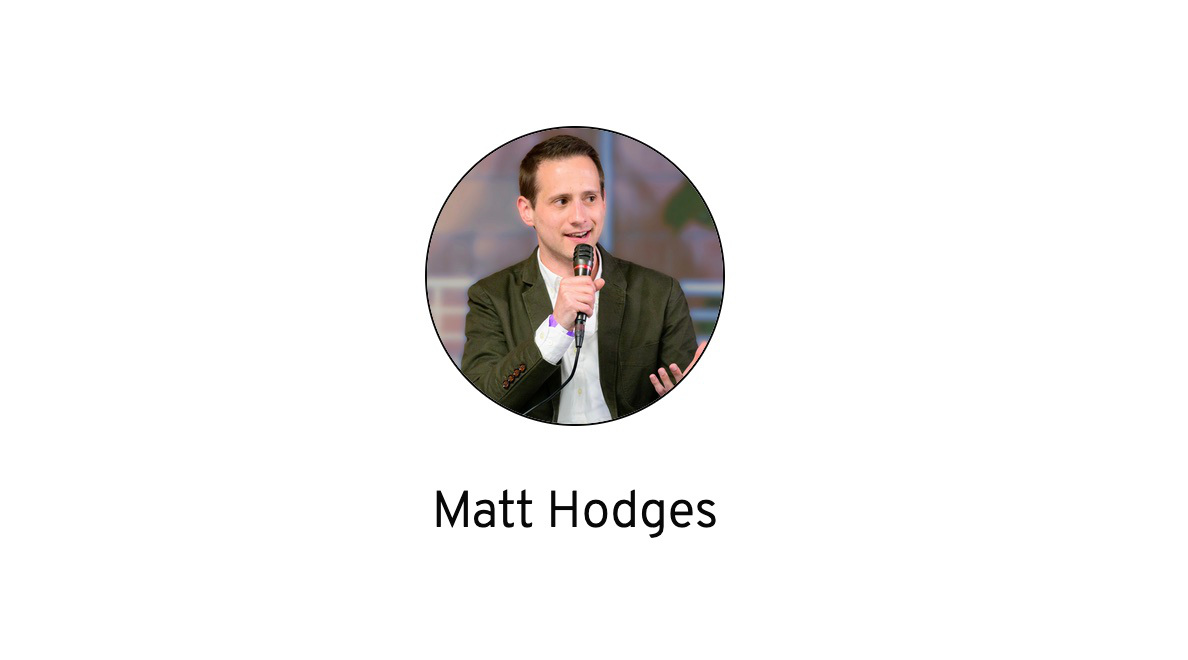
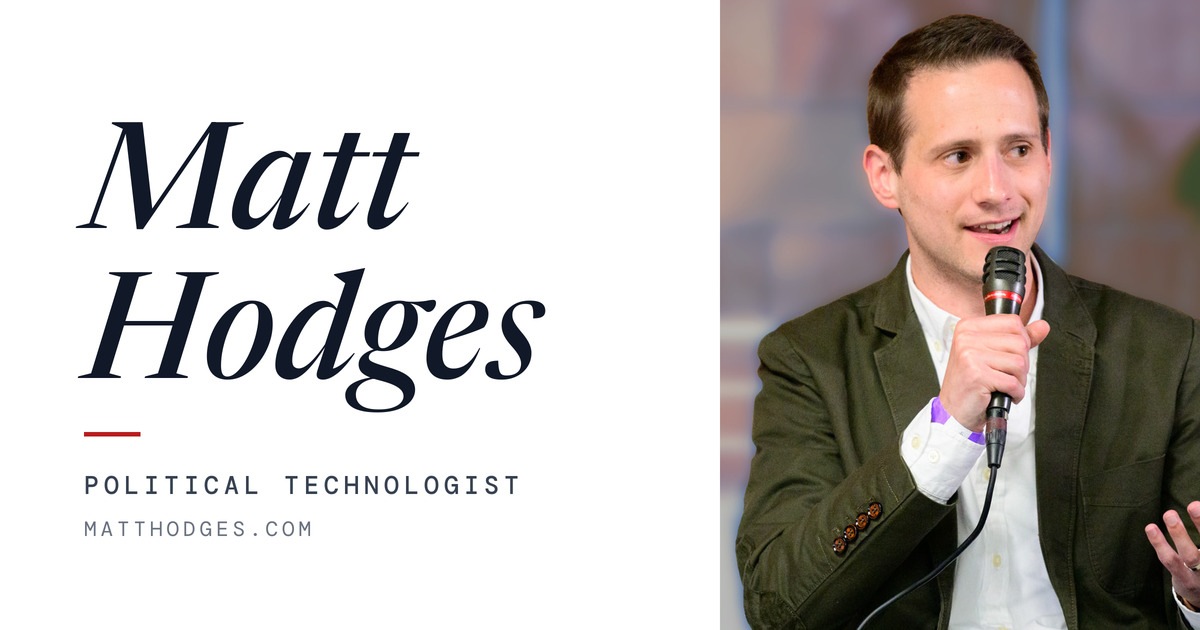
Replace the social card with a generated design-system version
img/social.jpg is now the site masthead as an image: Newsreader Italic
name, red accent rule, DM Mono metadata, headshot full-bleed right.
Built by generate-social-card.py, a new pre-render hook following the
favicon build's conventions: fonts pinned to google/fonts commits and
cached in .cache/fonts/, a SHA-256 input stamp (script source plus
img/photo.jpg) carried in the JPEG COM segment for --if-changed, and a
docs/ mirror so a card-only change deploys without a full render.

diff --git a/generate-social-card.py b/generate-social-card.py
@@ -1,0 +1,257 @@
+#!/usr/bin/env python
+"""Generate the sitewide social preview card, img/social.jpg (1200x630).
+
+The design is the site's masthead as an image: a white left panel with the
+name set large in Newsreader Italic (the navbar/favicon face), the red
+structural accent rule, DM Mono metadata lines, and the img/photo.jpg
+headshot full-bleed on the right. Every page that lacks its own image
+serves this card via og:image / twitter:image.
+
+Outputs (written under the site root, and mirrored into docs/ so a
+card-only change deploys without a full render):
+  img/social.jpg
+
+Usage:
+  python generate-social-card.py                 rebuild unconditionally
+  python generate-social-card.py --if-changed    rebuild only if the inputs changed
+
+Change detection: the inputs are this file's source (which carries the font
+pins, palette, and layout) plus img/photo.jpg. Their SHA-256 is stamped into
+the JPEG as a COM (comment) segment; --if-changed parses that marker with the
+standard library and exits in a few milliseconds when nothing changed.
+_quarto.yml runs this as a pre-render hook alongside generate-favicons.py.
+
+Rebuilding needs Pillow (in .venv; run with .venv/bin/python). Fonts are
+pinned to google/fonts commits and verified by digest; they are cached under
+.cache/fonts/ (gitignored) so repeat builds are offline.
+
+Gotcha for future edits: Pillow's set_variation_by_axes takes values in the
+font's own fvar order. For Newsreader that is (wght, opsz), not the
+(opsz, wght) the filename suggests; a swapped pair silently clamps both axes.
+"""
+
+import argparse
+import hashlib
+import json
+import os
+import shutil
+import struct
+import sys
+import urllib.request
+
+ROOT = os.path.dirname(os.path.abspath(__file__))
+FONT_DIR = os.path.join(ROOT, ".cache", "fonts")
+
+# Newsreader Italic: same pin as generate-favicons.py (shares its cache file).
+NEWSREADER_COMMIT = "991ce1de6075188e6b8977a5aa9fcd3610a4e946"
+# DM Mono: pinned to the google/fonts commit that last touched ofl/dmmono.
+DMMONO_COMMIT = "bfb7c046dea572dca9fdd435481ba2f36b0a1ebc"
+
+FONTS = {
+    "newsreader": (
+        f"https://raw.githubusercontent.com/google/fonts/{NEWSREADER_COMMIT}/ofl/newsreader/"
+        "Newsreader-Italic%5Bopsz%2Cwght%5D.ttf",
[1 lines of base64/hex data omitted]
+        f"Newsreader-Italic-{NEWSREADER_COMMIT[:12]}.ttf",
+    ),
+    "dmmono-medium": (
+        f"https://raw.githubusercontent.com/google/fonts/{DMMONO_COMMIT}/ofl/dmmono/DMMono-Medium.ttf",
[1 lines of base64/hex data omitted]
+        f"DMMono-Medium-{DMMONO_COMMIT[:12]}.ttf",
+    ),
+    "dmmono-regular": (
+        f"https://raw.githubusercontent.com/google/fonts/{DMMONO_COMMIT}/ofl/dmmono/DMMono-Regular.ttf",
[1 lines of base64/hex data omitted]
+        f"DMMono-Regular-{DMMONO_COMMIT[:12]}.ttf",
+    ),
+}
+
+PHOTO = "img/photo.jpg"
+OUT = "img/social.jpg"
+
+# styles.scss palette
+GRAY_500 = "#6B7280"
+GRAY_700 = "#374151"
+GRAY_900 = "#111827"
+RED = "#B91C1C"
+WHITE = "#FFFFFF"
+
+W, H = 1200, 630
+S = 2                     # render at 2x, downsample for anti-aliasing
+LEFT = 84                 # left margin of the text block
+Y_NAME = 228              # baseline of "Matt"; "Hodges" sits 150 below
+NAME_SIZE = 148           # Newsreader Italic, wght 500, opsz 72
+PHOTO_W = 480             # right-side photo panel width
+PHOTO_FOCUS = (470, 285)  # face center in img/photo.jpg coordinates
+JPEG_QUALITY = 92         # subsampling 4:4:4 keeps the type and rule clean
+
+STAMP = "generate-social-card.py inputs sha256:{}"
+
+
+# --- change detection (standard library only) --------------------------------
+
+def sha256_file(path):
+    h = hashlib.sha256()
+    with open(path, "rb") as fh:
+        for chunk in iter(lambda: fh.read(1 << 16), b""):
+            h.update(chunk)
+    return h.hexdigest()
+
+
+def input_digest():
+    """Hash of everything that determines the output: this script's source
+    (font pins, palette, layout, quality) plus the headshot."""
+    h = hashlib.sha256()
+    with open(os.path.abspath(__file__), "rb") as fh:
+        h.update(fh.read())
+    h.update(json.dumps({"photo": sha256_file(os.path.join(ROOT, PHOTO))}).encode())
+    return h.hexdigest()
+
+
+def jpeg_comments(path):
+    """Return the COM segment payloads of a JPEG, without Pillow."""
+    comments = []
+    with open(path, "rb") as fh:
+        if fh.read(2) != b"\xff\xd8":
+            return comments
+        while True:
+            byte = fh.read(1)
+            if not byte:
+                return comments
+            if byte != b"\xff":
+                continue
+            marker = fh.read(1)
+            if not marker or marker in b"\xff\x00\x01" or b"\xd0" <= marker <= b"\xd9":
+                continue
+            if marker == b"\xda":  # start of scan: no more metadata segments
+                return comments
+            (length,) = struct.unpack(">H", fh.read(2))
+            payload = fh.read(length - 2)
+            if marker == b"\xfe":
+                comments.append(payload)
+
+
+def is_current(out_root, digest):
+    out = os.path.join(out_root, OUT)
+    if not os.path.exists(out):
+        return False
+    stamp = STAMP.format(digest).encode()
+    return any(stamp in c for c in jpeg_comments(out))
+
+
+def mirror(out_root, mirror_root):
+    src = os.path.join(out_root, OUT)
+    dst = os.path.join(mirror_root, OUT)
+    if os.path.exists(dst) and sha256_file(src) == sha256_file(dst):
+        return 0
+    os.makedirs(os.path.dirname(dst), exist_ok=True)
+    shutil.copyfile(src, dst)
+    return 1
+
+
+# --- building ----------------------------------------------------------------
+
+def fetch_font(key):
+    url, digest, name = FONTS[key]
+    path = os.path.join(FONT_DIR, name)
+    if os.path.exists(path) and sha256_file(path) == digest:
+        return path
+    os.makedirs(FONT_DIR, exist_ok=True)
+    print(f"downloading {url}")
+    tmp = path + ".part"
+    urllib.request.urlretrieve(url, tmp)
+    got = sha256_file(tmp)
+    if got != digest:
+        os.remove(tmp)
+        sys.exit(f"font digest mismatch for {name}: expected {digest}, got {got}")
+    os.replace(tmp, path)
+    return path
+
+
+def build(out_root, digest):
+    try:
+        from PIL import Image, ImageDraw, ImageFont
+    except ImportError:
+        sys.exit("Pillow not importable; run with the .venv python (.venv/bin/python generate-social-card.py)")
+
+    def newsreader(px, wght, opsz):
+        f = ImageFont.truetype(fetch_font("newsreader"), px * S)
+        f.set_variation_by_axes([wght, opsz])  # fvar order: (wght, opsz)
+        return f
+
+    def dm_mono(px, medium):
+        return ImageFont.truetype(fetch_font("dmmono-medium" if medium else "dmmono-regular"), px * S)
+
+    def tracked(draw, xy, text, font, fill, tracking):
+        x, y = xy[0] * S, xy[1] * S
+        for ch in text:
+            draw.text((x, y), ch, font=font, fill=fill, anchor="ls")
+            x += draw.textlength(ch, font=font) + tracking * S
+
+    img = Image.new("RGB", (W * S, H * S), WHITE)
+    draw = ImageDraw.Draw(img)
+
+    # Right panel: the headshot, cropped to keep the face centered.
+    photo = Image.open(os.path.join(out_root, PHOTO)).convert("RGB")
+    sw, sh = photo.size
+    scale = max(PHOTO_W * S / sw, H * S / sh)
+    crop_w, crop_h = PHOTO_W * S / scale, H * S / scale
+    x0 = min(max(PHOTO_FOCUS[0] - crop_w / 2, 0), sw - crop_w)
+    y0 = min(max(PHOTO_FOCUS[1] - crop_h / 2, 0), sh - crop_h)
+    photo = photo.crop((int(x0), int(y0), int(x0 + crop_w), int(y0 + crop_h)))
+    photo = photo.resize((PHOTO_W * S, H * S), Image.LANCZOS)
+    img.paste(photo, ((W - PHOTO_W) * S, 0))
+
+    # Left panel: name, rule, metadata.
+    name_font = newsreader(NAME_SIZE, wght=500, opsz=72)
+    draw.text((LEFT * S, Y_NAME * S), "Matt", font=name_font, fill=GRAY_900, anchor="ls")
+    draw.text((LEFT * S, (Y_NAME + 150) * S), "Hodges", font=name_font, fill=GRAY_900, anchor="ls")
+
+    rule_y = Y_NAME + 150 + 54
+    draw.rectangle([LEFT * S, rule_y * S, (LEFT + 56) * S, (rule_y + 4) * S], fill=RED)
+
+    tracked(draw, (LEFT, rule_y + 62), "POLITICAL TECHNOLOGIST", dm_mono(25, medium=True), GRAY_700, 5)
+    tracked(draw, (LEFT, rule_y + 62 + 42), "MATTHODGES.COM", dm_mono(21, medium=False), GRAY_500, 4)
+
+    out = os.path.join(out_root, OUT)
+    os.makedirs(os.path.dirname(out), exist_ok=True)
+    img.resize((W, H), Image.LANCZOS).save(
+        out, "JPEG",
+        quality=JPEG_QUALITY, subsampling=0, optimize=True,
+        comment=STAMP.format(digest).encode(),
+    )
+    print(f"wrote {out} ({W}x{H}, quality {JPEG_QUALITY})")
+
+
+def main():
+    ap = argparse.ArgumentParser(description=__doc__.split("\n\n")[0])
+    ap.add_argument("--if-changed", action="store_true",
+                    help="Skip the build when the stamp in img/social.jpg matches the current inputs")
+    ap.add_argument("--out", default=ROOT, help="Site root to write into (default: this script's directory)")
+    ap.add_argument("--mirror", default=None,
+                    help="Directory to mirror the output into (default: <out>/docs when it exists)")
+    ap.add_argument("--no-mirror", action="store_true", help="Don't mirror into docs/")
+    args = ap.parse_args()
+
+    digest = input_digest()
+
+    mirror_root = None
+    if not args.no_mirror:
+        mirror_root = args.mirror or os.path.join(args.out, "docs")
+        if not os.path.isdir(mirror_root):
+            mirror_root = None
+
+    if args.if_changed and is_current(args.out, digest):
+        msg = "social card up to date"
+        if mirror_root and mirror(args.out, mirror_root):
+            msg += f" (synced into {os.path.relpath(mirror_root, args.out)}/)"
+        print(msg)
+        return
+
+    build(args.out, digest)
+    if mirror_root and mirror(args.out, mirror_root):
+        print(f"mirrored into {os.path.relpath(mirror_root, args.out)}/")
+
+
+if __name__ == "__main__":
+    main()

diff --git a/CLAUDE.md b/CLAUDE.md
@@ -35,6 +35,7 @@ Canonical URLs are handled natively via `canonical-url: true` in `_quarto.yml`.
 - `_freeze/` -- Quarto freeze directory storing cached computation results from notebooks
 - `img/` -- site-wide images (photo, social card, favicon SVG and PNG icons)
 - `generate-favicons.py` -- builds the favicon set (`img/favicon*.{svg,png}`, `img/icon-*.png`, `favicon.ico`, `apple-touch-icon.png`) from the Newsreader Italic "M" glyph and mirrors it into `docs/`. Runs as a pre-render hook with `--if-changed`, which compares a SHA-256 stamp inside `img/favicon.svg` against the script source and parameters and exits immediately when nothing changed. The font is pinned to a google/fonts commit and cached in `.cache/fonts/` (gitignored).
+- `generate-social-card.py` -- builds the sitewide social preview card `img/social.jpg` (1200x630 og:image / twitter:image) and mirrors it into `docs/`. Same conventions as the favicon build: pre-render hook with `--if-changed`, fonts (Newsreader Italic, DM Mono) pinned to google/fonts commits and cached in `.cache/fonts/`, and a SHA-256 stamp of the script source plus `img/photo.jpg` carried in the JPEG's COM segment for change detection. Rebuilding needs Pillow (in `.venv`); the fast path is standard library only. When editing: Pillow's `set_variation_by_axes` takes values in the font's fvar order, which for Newsreader is (wght, opsz).
 
 ## Post Conventions
 
@@ -67,7 +68,7 @@ All interactive elements (links, navbar, TOC, cards) use `$transition-speed: 0.1
 
 ## Pre- and Post-Render Scripts
 
-One pre-render script runs first: `generate-favicons.py --if-changed` (see above). Then post-render scripts run automatically (configured in `_quarto.yml`):
+Two pre-render scripts run first: `generate-favicons.py --if-changed` and `generate-social-card.py --if-changed` (see above). Then post-render scripts run automatically (configured in `_quarto.yml`):
 1. `generate-llms-txt.py` -- generates `docs/llms.txt` from rendered markdown files for LLM consumption
 2. `generate-ai-links.py` -- injects static "Open in ChatGPT" and "Open in Claude" links into the `.quarto-alternate-formats` section of each rendered HTML page, using the canonical URL
 3. `generate-structured-data.py` -- injects JSON-LD structured data and Open Graph tags into each rendered HTML page
